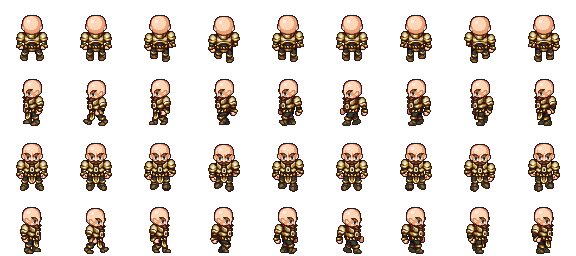
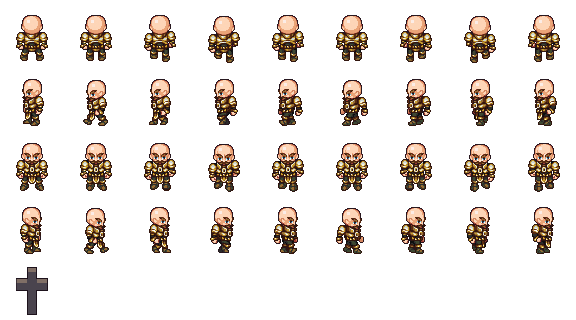
Player dead animation

diff --git a/client/players.js b/client/players.js
@@ -82,6 +82,11 @@ function createPlayer(id, x, y, isProtector) {
                     startFrame: 28,
                     length: 8,
                     frameTime: 0.1
+                },
+                dead: {
+                    startFrame: 36,
+                    length: 1,
+                    frameTime: 0.1
                 }
             }
         });
@@ -406,6 +411,10 @@ function updatePlayerSpritePositions(interpolate) {
         let player = players[i];
 
         if (player.sprite) {
+            if (player.life <= 0) {
+                playAnim(player.sprite, "dead");
+            }
+
             if (interpolate) {
                 player.sprite.x += (player.x - player.sprite.x) * 0.2;
                 player.sprite.y += (player.y - player.sprite.y) * 0.2;
@@ -454,7 +463,7 @@ function drawStatus(cam) {
     if (!player) {
         return;
     }
-    
+
     ctx.font = "20px Arial";
     ctx.fillStyle = "blue";
     ctx.fillText(
